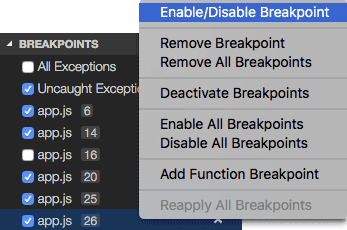
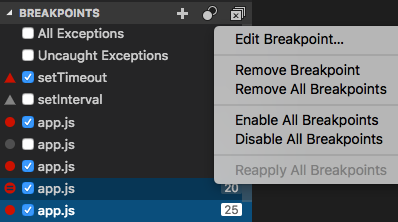
debugging: add breakpoints view picture

diff --git a/docs/editor/debugging.md b/docs/editor/debugging.md
@@ -143,6 +143,9 @@ Breakpoints can be toggled by clicking on the **editor margin**. Finer breakpoin
 
 The **Reapply All Breakpoints** command sets all breakpoints again to their original location. This is helpful if your debug environment is "lazy" and "misplaces" breakpoints in source code that has not yet been executed.
 
+![Breakpoints](images/debugging/breakpoints.png)
+
+
 ## Data inspection
 
 Variables can be inspected in the **VARIABLES** section of the Debug view or by hovering over their source in the editor. Variables and expression evaluation is relative to the selected stack frame in the **CALL STACK** section.
@@ -288,7 +291,7 @@ Column breakpoints can also have conditions. Editing multiple breakpoints on a l
 
 Instead of placing breakpoints directly in source code, a debugger can support creating breakpoints by specifying a function name. This is useful in situations where source is not available but a function name is known.
 
-A 'function breakpoint' is created by pressing the **+** button in the **BREAKPOINTS** section header and entering the function name.
+A 'function breakpoint' is created by pressing the **+** button in the **BREAKPOINTS** section header and entering the function name. Function breakpoints are shown with a red triangle in the **BREAKPOINTS** section.
 
 ## Debug Console REPL
 
